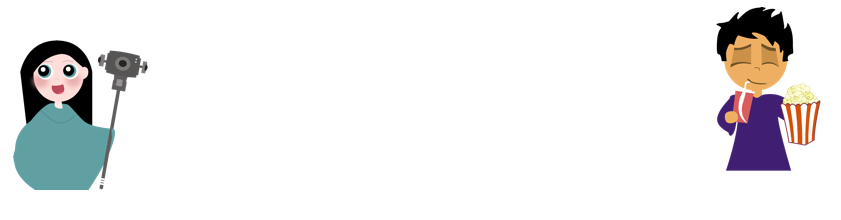
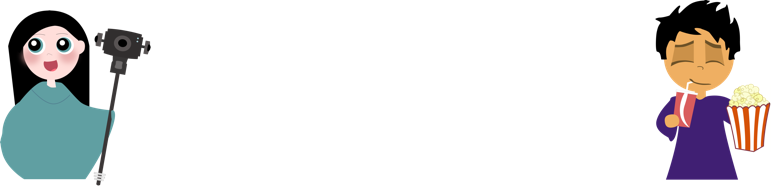
Some work on image optimization done, other minor design fixes applied and warnings on Privacy fixed. Woot woot!

Changed region(s): [[0.0, 0.0538, 0.2179, 1.0], [0.8405, 0.0, 1.0, 0.9677], [0.8405, 0.0806, 0.8716, 0.1075]]

diff --git a/lumierevr2018/src/pages/DistributePage/DistributePage.jsx b/lumierevr2018/src/pages/DistributePage/DistributePage.jsx
@@ -56,11 +56,11 @@ class Distribute extends Component {
                   Standard micro-usb charging towers ensure headsets are fully
                   charged at night and ready to run in the morning.
                 </p>
-                <p>
+                <p className= "hide-on-mobile-resize">
                   On the left is an installment we’ve built for Prairie Fire in
                   Kansas City.
                 </p>
-                <p>
+                <p className= "hide-on-mobile-resize">
                   On the bottom is complementary analysis of both performance
                   and behaviour from headtracking heatmaps powered by Retinad.
                 </p>
@@ -141,7 +141,7 @@ class Distribute extends Component {
                   </a>{" "}
                   for more details!
                 </p>
-                <p>
+                <p className= "hide-on-mobile-resize">
                   Top Left: VR Fest by Jump Into The Light <br />
                   Left: VIP Event for the Canadian Media Fund <br />
                   Bottom: Gold Coast Motor Festival by JP Morgan <br />

diff --git a/lumierevr2018/src/pages/HomePage/Homepage.sass b/lumierevr2018/src/pages/HomePage/Homepage.sass
@@ -10,7 +10,7 @@
         align-items: center
         height: calc(100vh - 90px)
         @include mobile-lg
-            padding-top: 0
+            padding-top: 90px
             text-align: center
             p, h3
                 text-align: left
@@ -48,6 +48,11 @@
         justify-content: center
         height: 50vh
         min-height: 50vw
+
+        @include mobile-lg 
+            background: url("../../images/HomePage/victoria-background-mobile.png") center black;
+            background-size: cover;
+        
         .timer-wrap
             width: 95%
         h2
@@ -108,6 +113,11 @@
         background-blend-mode: overlay
         h4
             text-align: center
+
+        @include mobile-lg 
+            background: transparentize(black, .4) url('../../images/HomePage/formbackground-mobile.png') 
+            background-size: cover
+            background-blend-mode: overlay
         .address-grid
             list-style: none
             display: flex

diff --git a/lumierevr2018/src/pages/PrivacyPolicyPage/PrivacyPolicyPage.js b/lumierevr2018/src/pages/PrivacyPolicyPage/PrivacyPolicyPage.js
@@ -59,10 +59,10 @@ class PrivacyPolicyPage extends Component {
                 record of the user’s preferences when utilizing our services,
                 both on an individual and aggregate basis. For example, the
                 Company may use cookies to collect the following information:
-                <ul>
-                  <li> Emails </li>
-                  <li> Region of IP </li>
-                </ul>
+                <span>
+                  <br></br>1.  Emails 
+                  <br></br>2.  Region of IP 
+                </span>
               </p>
               <p>
                 The Company may use both persistent and session cookies;

diff --git a/lumierevr2018/src/pages/ContactUsPage/ContactUsPage.scss b/lumierevr2018/src/pages/ContactUsPage/ContactUsPage.scss
@@ -6,6 +6,12 @@
         background: transparentize(black, .4) url('../../images/HomePage/formbackground.png');
         background-size: cover;
         background-blend-mode: overlay;
+
+        @include mobile-lg {
+            background: transparentize(black, .4) url('../../images/HomePage/formbackground-mobile.png');
+            background-size: cover;
+            background-blend-mode: overlay;
+        }
        
         h4, h1{
             text-align: center;

diff --git a/lumierevr2018/src/pages/CreatePage/CreatePage.jsx b/lumierevr2018/src/pages/CreatePage/CreatePage.jsx
@@ -39,7 +39,7 @@ class Create extends Component {
             <div className="first-section">
               <img
                 className="image-header"
-                src={require("../../images/CreatePage/CreateWithUs.png")}
+                src={require("../../images/CreatePage/CreatewithUs.png")}
               />
             </div>
 

diff --git a/lumierevr2018/src/pages/DistributePage/DistributePage.scss b/lumierevr2018/src/pages/DistributePage/DistributePage.scss
@@ -52,6 +52,7 @@
     }
   }
 
+  
   .case1TheaterLeftDiv {
     float: left;
     width: 33%;
@@ -100,6 +101,15 @@
 
   p {
     font-size: 20px;
+    font-weight: normal;
+  }
+
+  .hide-on-mobile-resize {
+     
+      @include mobile-lg {
+        display: none !important;
+    }
+
   }
 
   h1 {

diff --git a/lumierevr2018/src/pages/CreatePage/CreatePage.scss b/lumierevr2018/src/pages/CreatePage/CreatePage.scss
@@ -9,11 +9,12 @@ form {
   color: white;
 
   .image-header {
-    width: 500px;
+    width: 550px;
     display: block;
     margin: 2rem auto;
     max-width: 80%;
     @include mobile-lg {
+      width: 70%;
       max-width: 100%;
     }
   }

diff --git a/lumierevr2018/src/styles/default.scss b/lumierevr2018/src/styles/default.scss
@@ -103,6 +103,11 @@ button {
   &.revealed {
     transform: translateY(-100%);
   }
+
+  @include mobile-lg {
+    background: url("../images/HomePage/landing-background-mobile.png") center black;
+    background-size: cover;
+  }
 }
 
 .App {

diff --git a/lumierevr2018/src/pages/PrivacyPolicyPage/PrivacyPolicyPage.scss b/lumierevr2018/src/pages/PrivacyPolicyPage/PrivacyPolicyPage.scss
@@ -3,6 +3,11 @@
 .policy-page {
   padding: 5%;
   font-size: 20px;
+  font-weight: normal;
+
+  h4 {
+    font-weight: normal;
+  }
 
   @include mobile-lg {
     display: flex;
